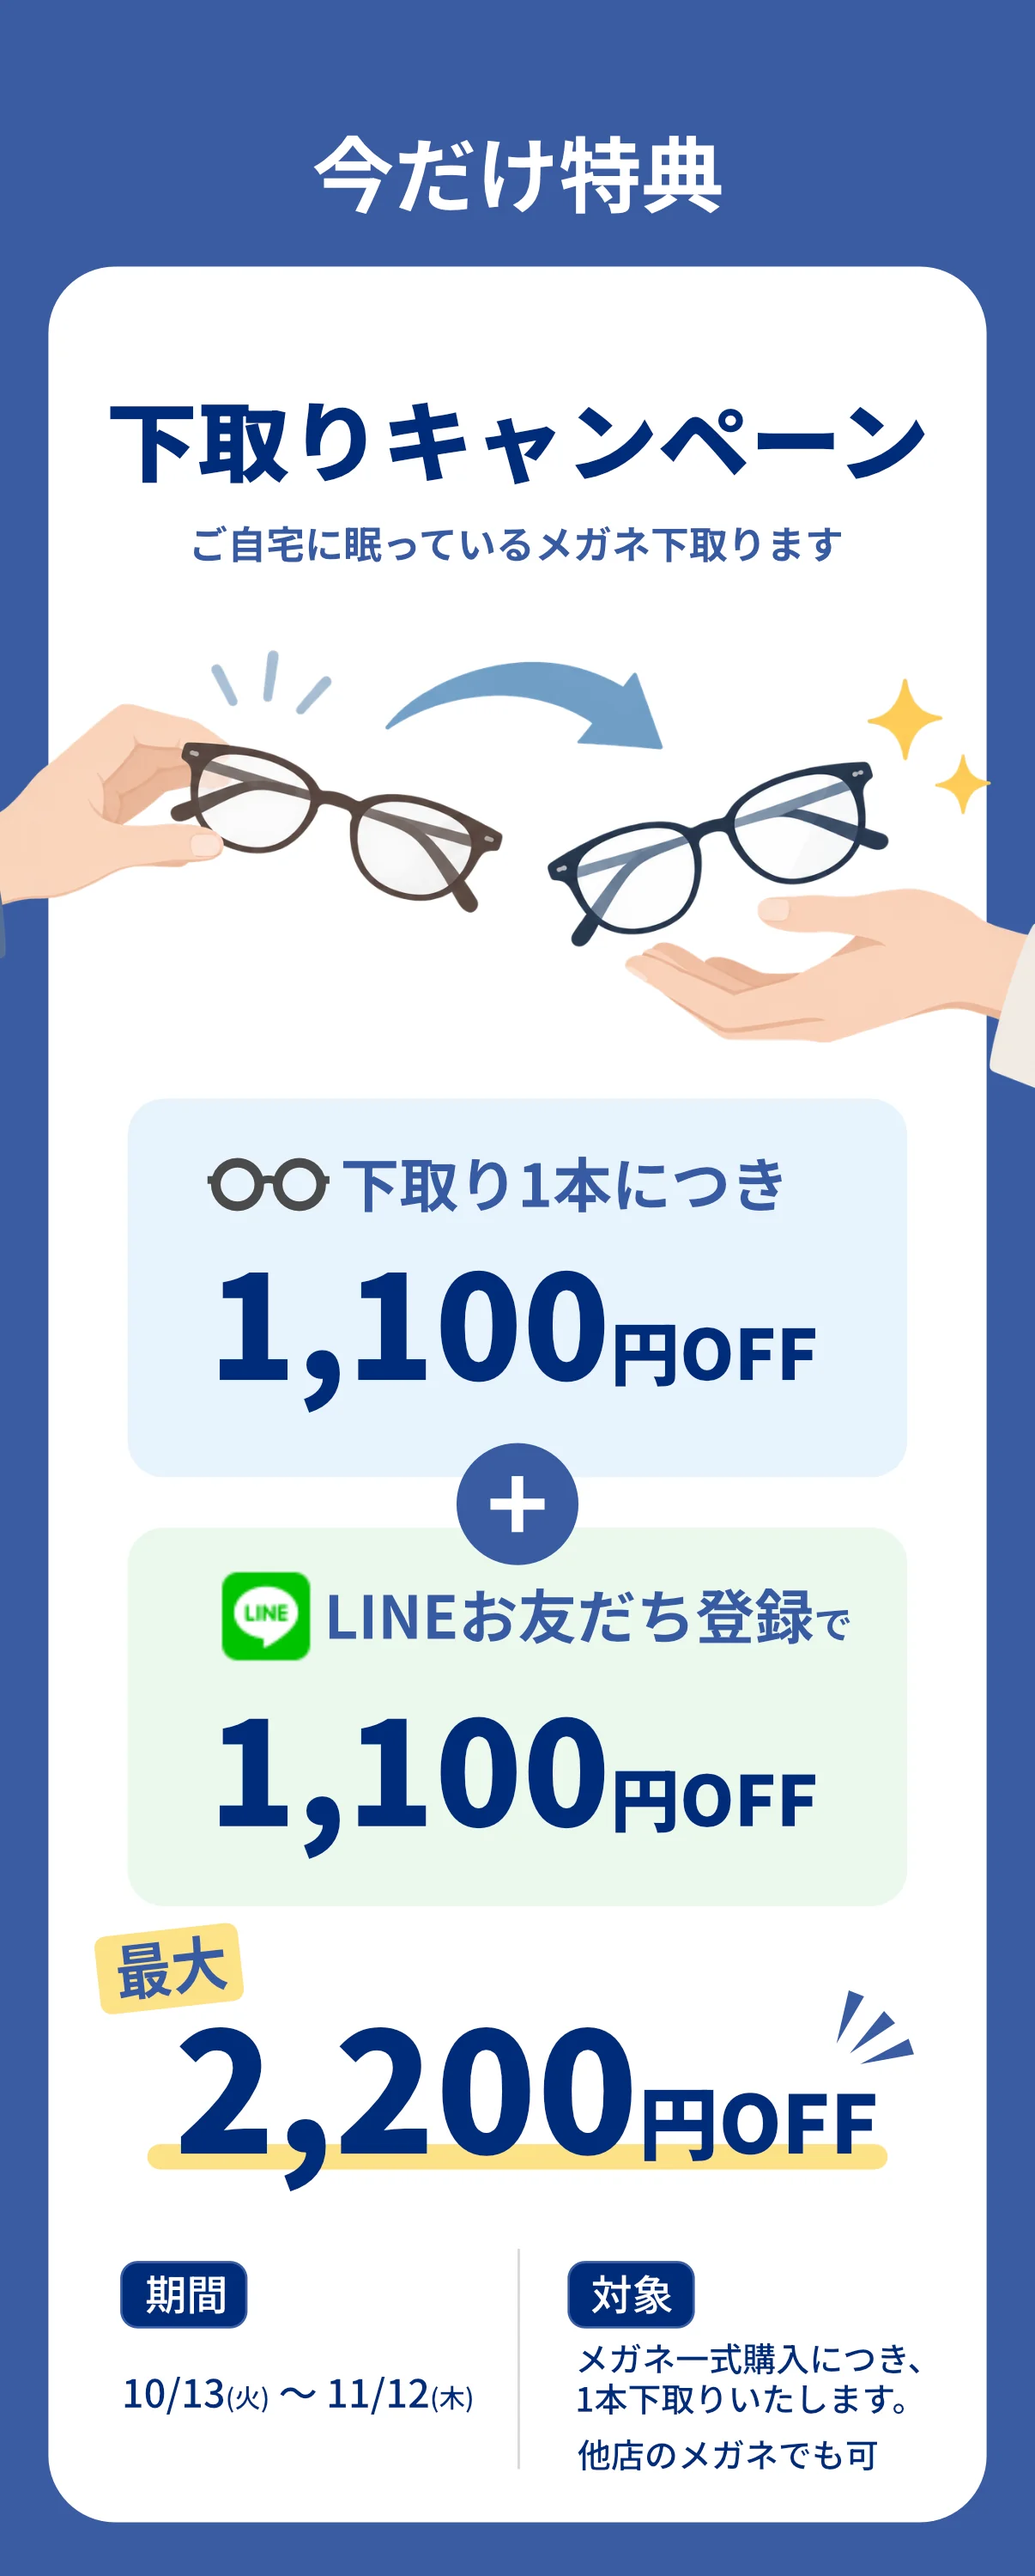
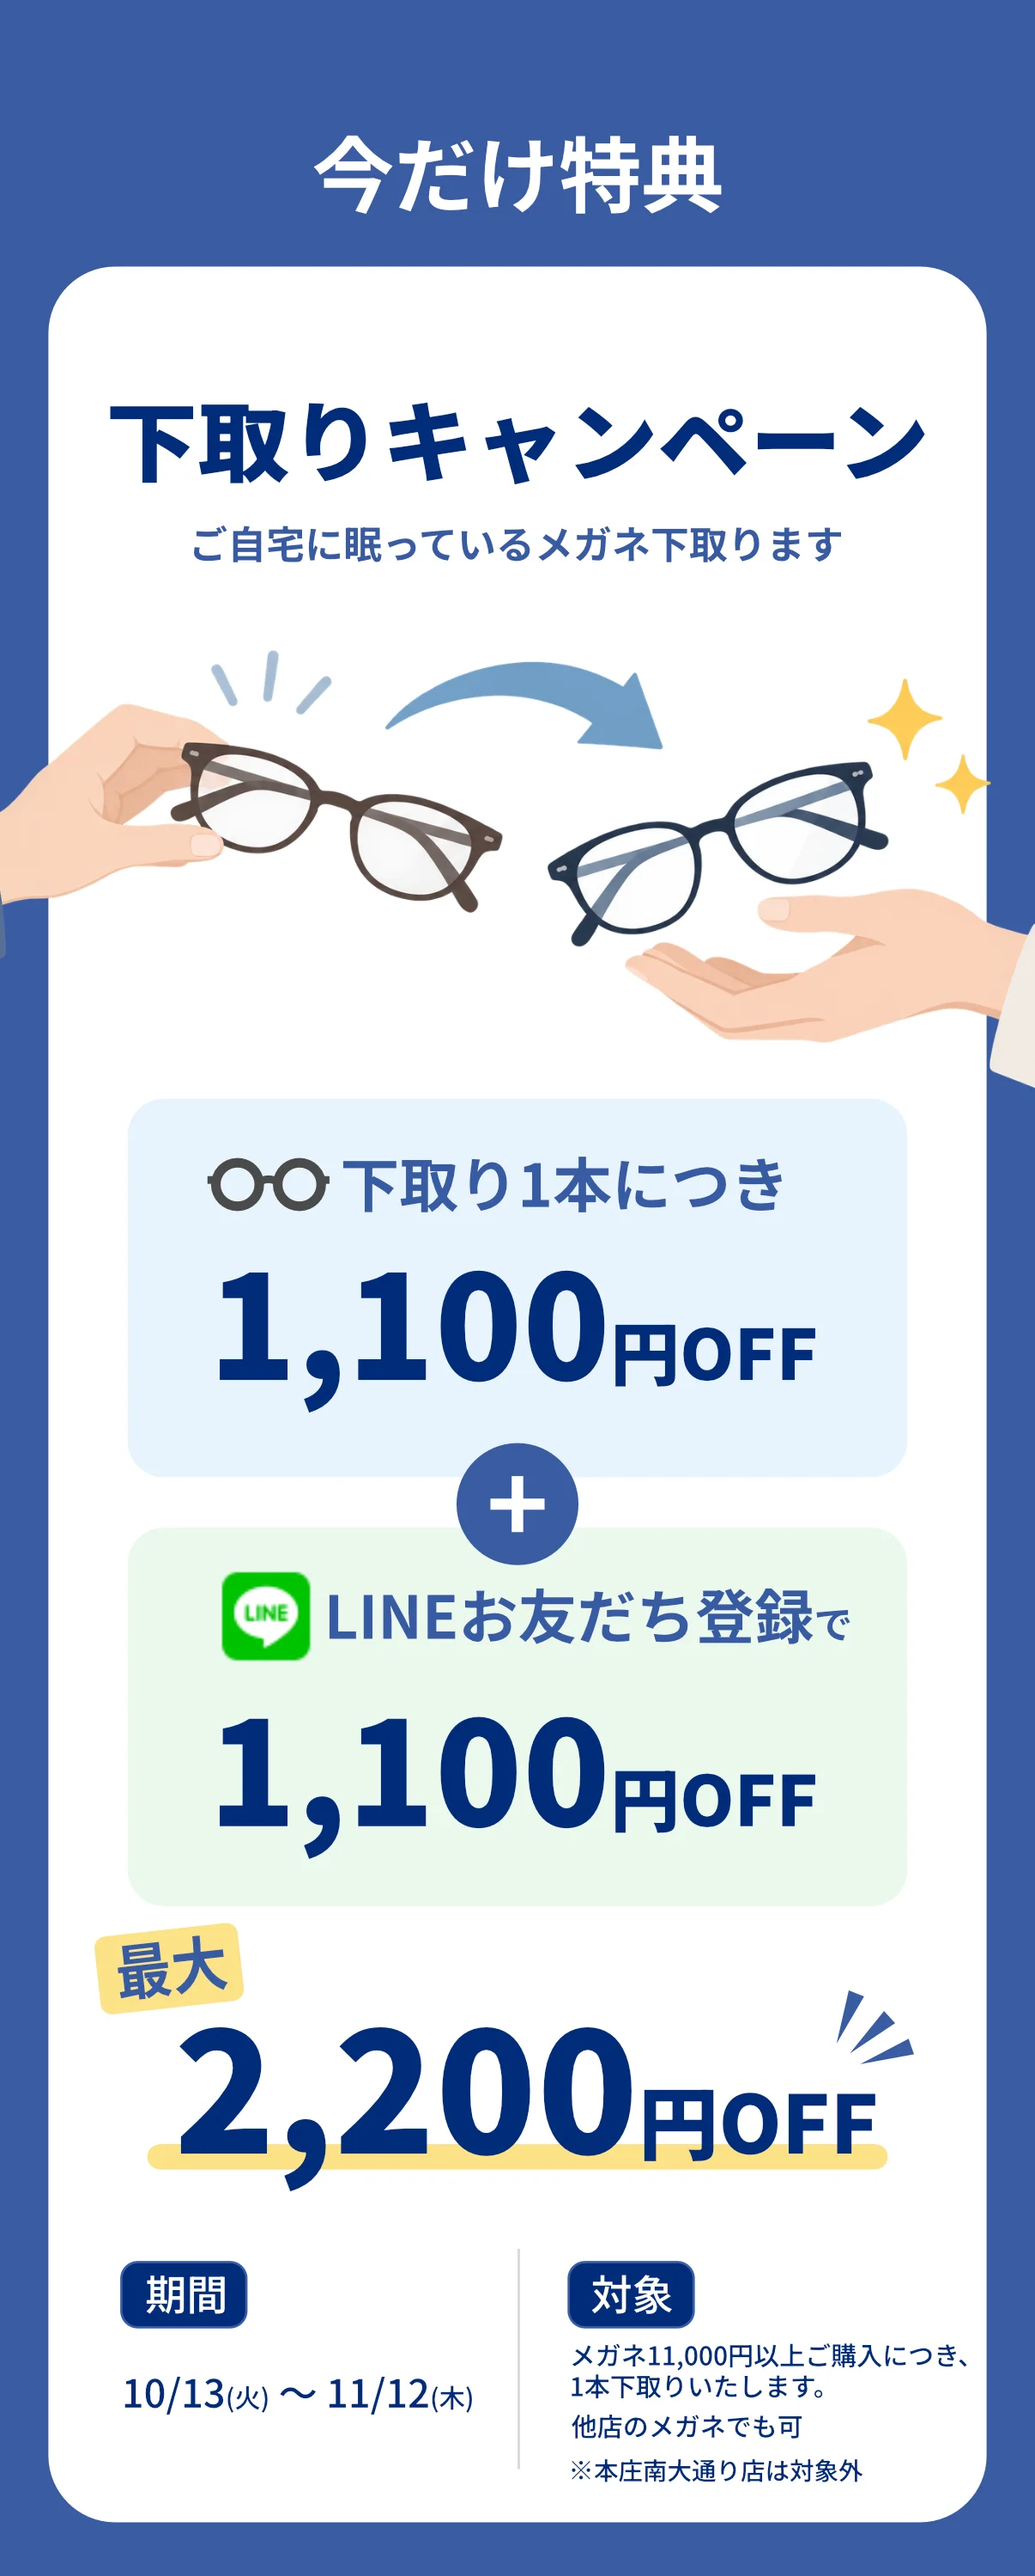
今だけ特典: 対象を「メガネ11,000円以上ご購入につき」に変更・本庄南大通り店対象外を追記（画像・alt）

Changed region(s): [[0.5522, 0.899, 0.9204, 0.961]]

diff --git a/index.html b/index.html
@@ -1269,7 +1269,7 @@
 
     <section class="tokuten-section" id="sec-tokuten">
       <h2 class="sr-only">今だけ特典 メガネの下取りキャンペーン 最大2,200円OFF</h2>
-      <img loading="lazy" decoding="async" class="tokuten-section-img reveal" src="img/tokuten-section.webp" width="1206" height="3000" alt="今だけ特典 メガネの下取りキャンペーン 下取り1本につき1,100円OFF こんなメガネも下取ります(ご自宅に眠っているメガネ・古いメガネ・壊れているメガネ・他店で購入したメガネ) さらにLINEお友だち登録で1,100円OFF 期間:10/13(火)〜11/12(木) 詳細:メガネ一式ご購入につき1本下取りいたします。">
+      <img loading="lazy" decoding="async" class="tokuten-section-img reveal" src="img/tokuten-section.webp" width="1206" height="3000" alt="今だけ特典 下取りキャンペーン ご自宅に眠っているメガネ下取ります 下取り1本につき1,100円OFF ＋ LINEお友だち登録で1,100円OFF 最大2,200円OFF 期間:10/13(火)〜11/12(木) 対象:メガネ11,000円以上ご購入につき、1本下取りいたします。他店のメガネでも可 ※本庄南大通り店は対象外">
     </section>
 
     <section class="trade-section" id="sec-trade">

diff --git a/wp-deploy/page-lp-shitadori2026.php b/wp-deploy/page-lp-shitadori2026.php
@@ -1218,7 +1218,7 @@ $lp_assets = get_stylesheet_directory_uri() . '/lp/assets/shitadori2026/img';
 
     <section class="tokuten-section" id="sec-tokuten">
       <h2 class="sr-only">今だけ特典 メガネの下取りキャンペーン 最大2,200円OFF</h2>
-      <img loading="lazy" decoding="async" class="tokuten-section-img reveal" src="<?php echo $lp_assets; ?>/tokuten-section.webp?v=b8c5b95e" width="1206" height="3000" alt="今だけ特典 メガネの下取りキャンペーン 下取り1本につき1,100円OFF こんなメガネも下取ります(ご自宅に眠っているメガネ・古いメガネ・壊れているメガネ・他店で購入したメガネ) さらにLINEお友だち登録で1,100円OFF 期間:10/13(火)〜11/12(木) 詳細:メガネ一式ご購入につき1本下取りいたします。">
+      <img loading="lazy" decoding="async" class="tokuten-section-img reveal" src="<?php echo $lp_assets; ?>/tokuten-section.webp?v=b693ea58" width="1206" height="3000" alt="今だけ特典 下取りキャンペーン ご自宅に眠っているメガネ下取ります 下取り1本につき1,100円OFF ＋ LINEお友だち登録で1,100円OFF 最大2,200円OFF 期間:10/13(火)〜11/12(木) 対象:メガネ11,000円以上ご購入につき、1本下取りいたします。他店のメガネでも可 ※本庄南大通り店は対象外">
     </section>
 
     <section class="trade-section" id="sec-trade">
